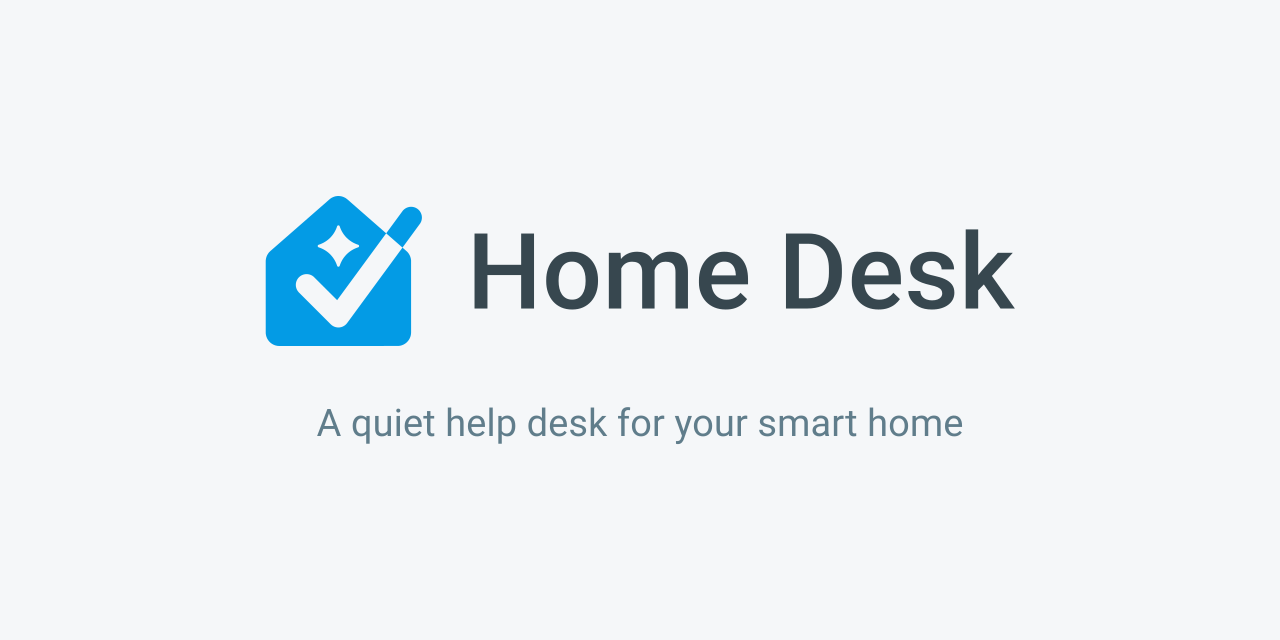
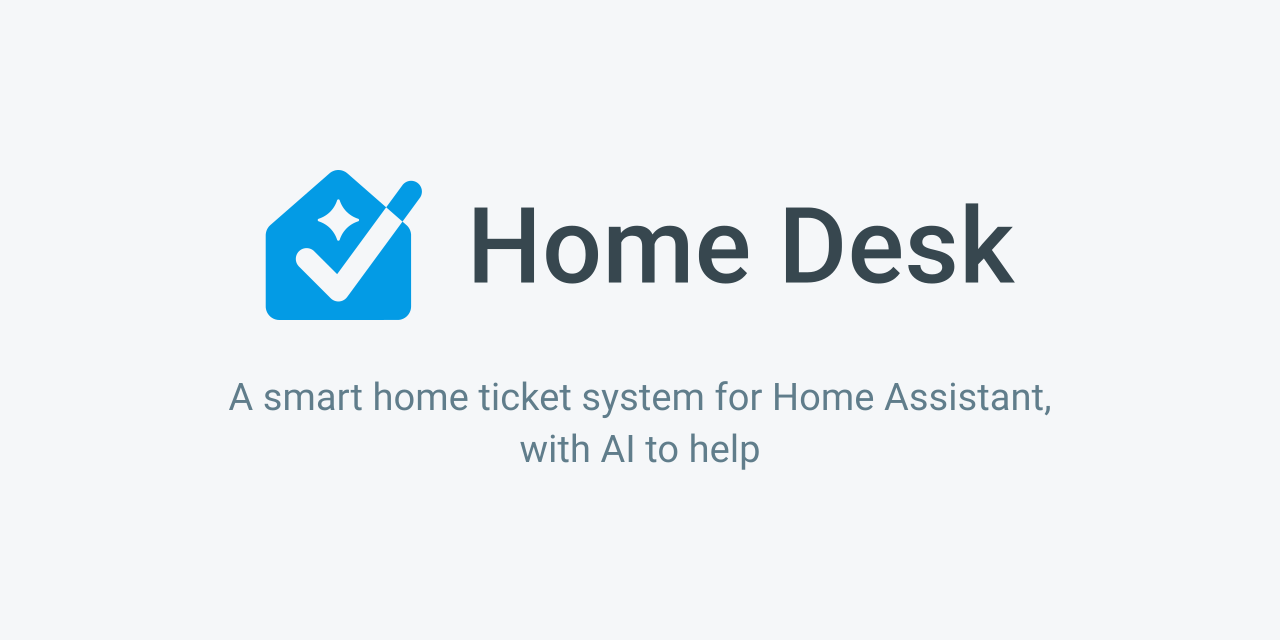
Brand: new social-preview images with the tagline "A smart home ticket system for Home Assistant, with AI to help."
- Merged from the updated brand pack: the light and dark social previews (PNG and SVG). Every other file in the pack was identical.
- README image alt text updated to match.

Changed region(s): [[0.1875, 0.25, 0.8125, 0.5625], [0.1875, 0.5938, 0.8125, 0.75]]

diff --git a/README.md b/README.md
@@ -1,6 +1,6 @@
 <picture>
   <source media="(prefers-color-scheme: dark)" srcset="brand/extras/social-preview-dark-1280x640.png">
-  <img alt="Home Desk: a quiet help desk for your smart home." src="brand/extras/social-preview-1280x640.png">
+  <img alt="Home Desk: a smart home ticket system for Home Assistant, with AI to help." src="brand/extras/social-preview-1280x640.png">
 </picture>
 
 ![Beta](https://img.shields.io/badge/status-beta-orange)
